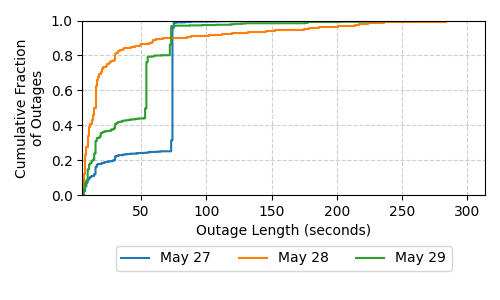
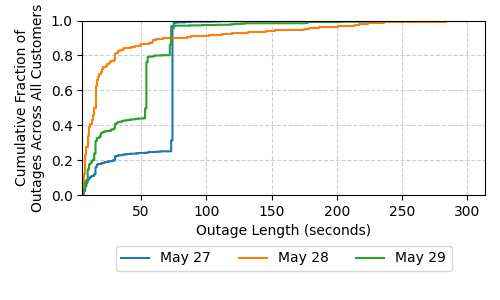
remaining figures

Changed region(s): [[0.03, 0.0, 0.09, 0.72]]

diff --git a/paper/scripts/packet_loss_line.py b/paper/scripts/packet_loss_line.py
@@ -1,0 +1,179 @@
+import matplotlib.pyplot as plt
+import os
+import pandas as pd
+import re
+
+from .src.config import FIG_OUTPUT_DIR, PATH
+from .src.import_data import get_total_loss_data_points, import_and_clean_df
+
+CENSYS_FILE = f'{PATH}/data/censys_exposed_services_AS14593.csv'
+
+def get_packet_loss_rate(
+        dir: str,
+        output_dir: str,
+        modified: bool = False,
+) -> pd.DataFrame:
+    """
+    Plots valid measurement rates per sample size, invalid measurement rates per sample size.
+    Plots data type splits (successful, outage, loss, pre-sat failure) per sample size
+    """
+    if (os.path.exists(f"{output_dir}/packet_loss_by_sample_size.csv")):
+        packet_loss_df = pd.read_csv(f"{output_dir}/packet_loss_by_sample_size.csv")
+        return packet_loss_df
+
+    failure_frac_data = []
+
+    pattern = re.compile(r"^modified_concurrent_AS14593_(\d+)_endpoint\.csv$")
+    matching_files = []
+    for filename in os.listdir(dir):
+        match = pattern.match(filename)
+        if match:
+            sample_size = int(match.group(1))  # Extract the integer if needed
+            matching_files.append((filename, sample_size))
+
+    matching_files.sort(key=lambda x: x[1])
+
+    for endpoint_file_name, sample_size in matching_files:
+        tmp_endpoint_file = f"{dir}/modified_concurrent_AS14593_{sample_size}_endpoint.csv"
+        tmp_seclast_file = f"{dir}/modified_concurrent_AS14593_{sample_size}_sec_last.csv"
+        tmp_seclast_endpoint_mapping_file = f"{dir}/modified_concurrent_AS14593_{sample_size}_sec_last_actual_vs_expected.csv"
+        tmp_output_dir = f'{output_dir}/sample_{sample_size}' 
+        os.makedirs(tmp_output_dir, exist_ok=True)
+        _, tmp_df, _ = import_and_clean_df(
+            seclast_file=tmp_seclast_file,
+            endpoint_file=tmp_endpoint_file,
+            censys_file=CENSYS_FILE,
+            output_dir=tmp_output_dir,
+            modified=modified,
+            filter=False,
+            seclast_mapping=tmp_seclast_endpoint_mapping_file,
+            merge_censys=True,
+        )
+
+        total_measurements = len(tmp_df)
+        total_loss_df = get_total_loss_data_points(tmp_df)
+
+        # fraction of all measurements that fail
+        fail_frac = len(total_loss_df) / total_measurements
+        failure_frac_data.append({
+            'sample_size': sample_size,
+            'num_endpoints': tmp_df['dst'].nunique(),
+            'frac':  fail_frac,
+        })
+
+    packet_loss_df = pd.DataFrame(failure_frac_data)
+    packet_loss_df = packet_loss_df.sort_values(by='num_endpoints')
+    packet_loss_df.to_csv(f"{output_dir}/packet_loss_by_sample_size.csv", index=False)
+
+    return packet_loss_df
+
+def plot_measurement_success_of_different_sampling_methods(
+        failure_dfs: list[pd.DataFrame],
+        output_dir: str,
+        fig_name: str,
+        labels: list[str] = None,
+):
+    """
+    Plot line graph of "valid" measurements different sample methods and sizes.
+    Plot line graph of "invalid" measurements.
+    :param success_dfs: a list of dataframes with columns: 'num_endpoints', 'frac'
+    :param failure_dfs: a list of dataframes with columns: 'num_endpoints', 'frac'
+                        must have the same length as success_dfs
+    """
+    # --- how does the subnet sampling vs. sec-last sampling affect failure rates?
+    cmap = plt.get_cmap('tab10')
+    colors = [cmap(i) for i in range(len(failure_dfs))]
+
+    plt.figure(figsize=(5, 3))
+    for ind, df in enumerate(failure_dfs):
+        df = df.sort_values(by=['sample_size'])
+        plt.plot(
+            df['sample_size'], 
+            df['frac'] * 100, 
+            label=labels[ind] if labels else None, 
+            color=colors[ind], 
+            marker='o',
+            markersize=4,
+        )
+    plt.xlabel('Number of Customers Sampled from a Partition Group')
+    plt.ylabel('Packet Loss (%)')
+    plt.legend(
+        loc='upper center',
+        bbox_to_anchor=(0.5, -0.25),
+        ncol=2,  # Adjust number of columns if needed
+        fontsize='small',
+    )
+    plt.grid(True)
+    plt.tight_layout()
+    plt.savefig(f'{output_dir}/{fig_name}.png')
+
+    
+SUBNET_DIR = f"{PATH}/data/naive_partition/subnet"
+subnet_failure_df = get_packet_loss_rate(
+    SUBNET_DIR,
+    SUBNET_DIR,
+)
+
+# --- SEC-LAST sample size
+SECLAST_DIR = f"{PATH}/data/naive_partition/seclast"
+seclast_failure_df = get_packet_loss_rate(
+    SECLAST_DIR,
+    SECLAST_DIR,
+)
+
+plot_measurement_success_of_different_sampling_methods(
+    [subnet_failure_df],
+    FIG_OUTPUT_DIR,
+    "packet_loss_by_sample_size",
+    ['subnet'],
+)
+# --- SUBNET vs. SEC-LAST
+# --- how does the subnet sampling vs. sec-last sampling affect failure rates?
+plot_measurement_success_of_different_sampling_methods(
+    [subnet_failure_df, seclast_failure_df],
+    FIG_OUTPUT_DIR,
+    "packet_loss_by_sample_size_subnet_vs_seclast",
+    ['subnet', 'pre-satellite hop'],
+)
+
+
+MULTI_DIR = f"{DATA_PATH}/concurrent_multi_src"
+SINGLE_DIR = f"{DATA_PATH}/concurrent_single_src"
+ROMAN_MULTI_DIR = f"{DATA_PATH}/modified_concurrent_multi_src"
+ROMAN_SINGLE_DIR = f"{DATA_PATH}/modified_concurrent_single_src"
+
+SINGLE_OUTPUT_DIR = f"{PATH}/data/measurement_config_comp/naive_single"
+MULTI_OUTPUT_DIR = f"{PATH}/data/measurement_config_comp/naive_multiple"
+ROMAN_SINGLE_OUTPUT_DIR = f"{PATH}/data/measurement_config_comp/roman_single"
+ROMAN_MULTI_OUTPUT_DIR = f"{PATH}/data/measurement_config_comp/roman_multiple"
+# --- measurement configuration comparison
+single_failure_df = get_packet_loss_rate(
+    SINGLE_DIR,
+    SINGLE_OUTPUT_DIR,
+    modified=False,
+)
+
+multi_failure_df = get_packet_loss_rate(
+    MULTI_DIR,
+    MULTI_OUTPUT_DIR,
+    modified=False,
+)
+
+roman_single_failure_df = get_packet_loss_rate(
+    ROMAN_SINGLE_DIR,
+    ROMAN_SINGLE_OUTPUT_DIR,
+    modified=True,
+)
+
+roman_multi_failure_df = get_packet_loss_rate(
+    ROMAN_MULTI_DIR,
+    ROMAN_MULTI_OUTPUT_DIR,
+    modified=True,
+)
+
+plot_measurement_success_of_different_sampling_methods(
+    [single_failure_df, multi_failure_df, roman_single_failure_df, roman_multi_failure_df],
+    FIG_OUTPUT_DIR,
+    "packet_loss_by_measurement_config.png"
+    ['1 Source IP (Naive)', '8 Source IPs (Naive)', '1 Source IP (Roman)', '8 Source IPs (Roman)'],
+)

diff --git a/data_collection/run_roman_hitchhiking.py b/data_collection/run_roman_hitchhiking.py
@@ -1,0 +1,87 @@
+import os
+import pandas as pd
+from src.constants import STARLINK_ASN, HURRICANE_ELECTRIC_ASN
+from data_collection.services_from_censys import get_censys_exposed_services
+from data_collection.run_scamper import Grouping, modified_concurrent_ttl_ping_by_grouping, run_paris_trs
+from data_collection.parse_scamper import get_last_hops_from_paris_tr
+
+"""
+Runs Roman HitchHiking
+"""
+
+OUTPUT_DIR = "roman-hh"
+os.makedirs(OUTPUT_DIR)
+
+def run_roman_hitchhiking(
+        asn: str, 
+        probe_interval: int, 
+        num_probes: int,  
+        multiple_src_ips: bool = True, 
+        grouping: Grouping = None, 
+        sample_size: int = None, 
+        slash: int = None,
+):
+    """
+    :param asn: the autonomous system number formatted as "AS####"
+    """
+    as_num = asn[2:]
+
+    # get exposed services
+    censys_exposed_services_file = f"{OUTPUT_DIR}/censys_exposed_services_{asn}.csv"
+    censys_exposed_ips_file = f"{OUTPUT_DIR}/censys_exposed_ips_{asn}.txt"
+    if os.path.exists(censys_exposed_services_file):
+        print(f"file exists: {censys_exposed_services_file}")
+        censys_df = pd.read_csv(censys_exposed_services_file)
+    else:
+        print(f"file doesn't exist: {censys_exposed_services_file}")
+        print("----querying Censys for exposed services")
+        censys_df = get_censys_exposed_services(int(as_num))
+        censys_df.to_csv(censys_exposed_services_file)
+        censys_df[['ip']].to_csv(censys_exposed_ips_file, header=None, index=None)
+        print("----done querying Censys for exposed services")
+
+    # paris traceroute all exposed services
+    paris_tr_file = f"{OUTPUT_DIR}/paris_tr_{asn}"
+    sec_to_last_file = f"{OUTPUT_DIR}/sec_last_{asn}.csv"
+    if os.path.exists(f"{sec_to_last_file}"):
+        print(f"file exists: {paris_tr_file}.csv")
+        # find second-to-last hops
+        sec_to_last_df = pd.read_csv(sec_to_last_file)
+    else:
+        print(f"file doesn't exists: {paris_tr_file}.csv")
+        print("----running paris traceroutes")
+        paris_tr_df = run_paris_trs(censys_exposed_ips_file, f"{paris_tr_file}.json")
+        paris_tr_df.to_csv(f"{paris_tr_file}.csv")
+        print("----done running paris traceroutes")
+        # find second-to-last hops
+        sec_to_last_df = get_last_hops_from_paris_tr(f"{paris_tr_file}.json", asn)
+        sec_to_last_df.to_csv(sec_to_last_file, index=None)
+    
+
+
+    # run roman hitchhiking
+    modified_concurrent_output_dir = f"{OUTPUT_DIR}/modified_all_may29"
+    os.makedirs(modified_concurrent_output_dir, exist_ok=True)
+    modified_concurrent_file_name = f"{modified_concurrent_output_dir}/modified_concurrent_{asn}"
+    if not os.path.exists(f"{modified_concurrent_file_name}_endpoint.csv") and \
+        not os.path.exists(f"{modified_concurrent_file_name}_sec_last.csv"):
+        print(f"file does not exist: {modified_concurrent_file_name}")
+
+        print("----running modified concurrent pings")
+        modified_concurrent_ttl_ping_by_grouping(
+                sec_to_last_df, asn, 
+                output_file=modified_concurrent_file_name, 
+                wait_probe=probe_interval, 
+                num_probes=num_probes,
+                grouping=grouping, 
+                sample_size=sample_size,
+                slash=slash, 
+                multiple_src_ips=multiple_src_ips,
+        ) 
+        print("----done running concurrent pings")
+
+    else:
+        print(f"file exists: {modified_concurrent_file_name}")
+
+
+run_roman_hitchhiking(STARLINK_ASN)

diff --git a/paper/scripts/naive_packet_loss_box_plot.py b/paper/scripts/naive_packet_loss_box_plot.py
@@ -73,7 +73,7 @@ def packets_received_box_plot(
     plt.ylabel(f'Average Packet Loss (%)')
     plt.tight_layout()
     plt.show()
-    fig_name = f'{fig_output_dir}/packet_loss_perc_per_probe_seclast.png'
+    fig_name = f'{fig_output_dir}/naive_packet_loss_per_seclast.png'
     print(f'saving to {fig_name}')
     plt.savefig(fig_name)
 

diff --git a/paper/scripts/outage_lengths.py b/paper/scripts/outage_lengths.py
@@ -44,7 +44,7 @@ def plot_outage_length_cdf(
         )
 
     plt.xlabel('Outage Length (seconds)')
-    plt.ylabel('Cumulative Fraction\nof Outages')
+    plt.ylabel('Cumulative Fraction of\nOutages Across All Customers')
     plt.legend(loc='upper center', bbox_to_anchor=(0.5, -0.25), ncol=3)
     plt.ylim(0, 1)
     plt.xlim(5, None)

diff --git a/README.md b/README.md
@@ -1,0 +1,25 @@
+# Roman HitchHiking
+
+Roman HitchHiking is a methodology used to collect high-resolution, point-in-time
+outage data for LEO Satellte Networks.
+
+Roman HitchHiking is based off of [LEO HitchHiking](https://github.com/stanford-esrg/LEO_HitchHiking).
+
+## Overview
+
+### `data_collection`
+Includes the scripts used to collect data using Roman-HitchHiking.
+- `run_roman_hitchhiking.py` -- an example script to collect data
+- `parse_scamper.py` -- parses scamper output to dataframe
+- `
+
+### `paper`
+
+#### `data`
+Datasets to generate figures
+
+#### `figures`
+Includes figures in the paper
+
+#### `scripts`
+Scripts to generate the figures
